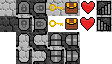
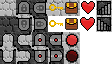
Assets + Render
Added assets for switched doors and switches as well as render code.

Changed region(s): [[0.0, 0.5, 0.7232, 1.0]]

diff --git a/game/src/dungeon.c b/game/src/dungeon.c
@@ -365,6 +365,37 @@ static void draw_stairs_tile(Texture texture, Rectangle target, const TileMap* m
     DrawTexturePro(texture, src, target, Vector2Zero(), 0, WHITE);
 }
 
+static void draw_switch_door_tile(Texture texture, Rectangle target, const TileMap* map, int x, int y) {
+    Rectangle src = {32, 0, 16, 16};
+
+    unsigned char wall_bits = get_neighbor_bits(map, '.', x, y) ^ get_neighbor_bits(map, 'l', x, y);
+    
+    if ((wall_bits & 0b01000000) == 0b01000000) {
+        // floor above, bottom door
+        src.x = 32;
+        src.y = 48;
+    }else if ((wall_bits & 0b00000010) == 0b00000010)
+    {
+        // floor below, top door
+        src.x = 32;
+        src.y = 32;
+    }else if ((wall_bits & 0b00001000) == 0b00001000)
+    {
+        // floor right, left door
+        src.x = 48;
+        src.y = 32;
+    }else if ((wall_bits & 0b00010000) == 0b00010000)
+    {
+        // floor left, right door
+        src.x = 48;
+        src.y = 48;
+}
+
+static void draw_switch_tile(Texture texture, Rectangle target, const TileMap* map, int x, int y) {
+    Rectangle src = {64, 32, 16, 16};
+    DrawTexturePro(texture, src, target, Vector2Zero(), 0, WHITE);
+}
+
 Dungeon* make_empty_dungeon() {
     Dungeon* dungeon = calloc(1, sizeof(Dungeon));
     TileRenderer* renderer = make_tile_renderer(16, 16);
@@ -377,6 +408,8 @@ Dungeon* make_empty_dungeon() {
     register_tile_type(renderer, 'l', item_texture, draw_locked_tile);
     register_tile_type(renderer, 'k', item_texture, draw_chest_tile);
     register_tile_type(renderer, 'X', item_texture, draw_stairs_tile);
+    register_tile_type(renderer, 'd', item_texture, draw_switch_door_tile);
+    register_tile_type(renderer, 's', item_texture, draw_switch_tile);
 
     dungeon->renderer = renderer;
     return dungeon;
